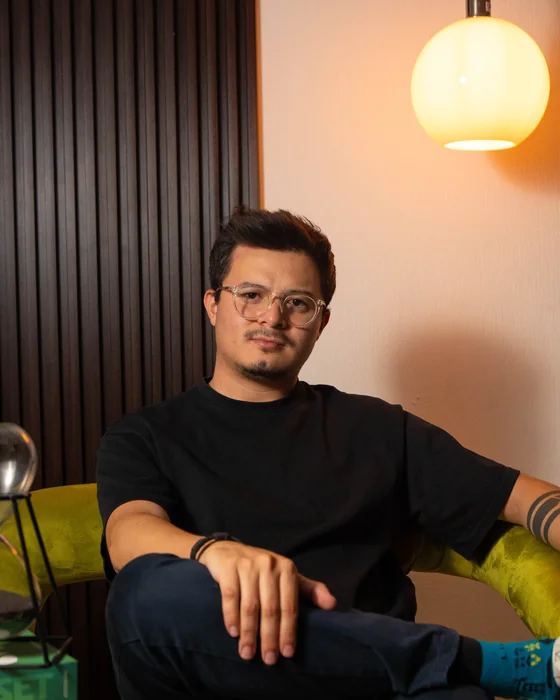
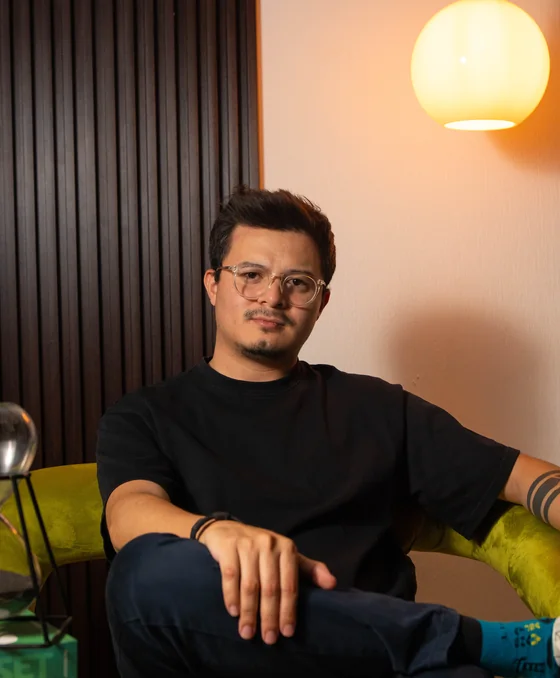
Hero: re-crop to match the social-share framing (face-forward)

diff --git a/es/index.html b/es/index.html
@@ -180,7 +180,7 @@
       <figure class="hero-figure reveal">
         <img src="../assets/images/hero/kevin-rivera-el-salvador-45.webp"
              srcset="../assets/images/hero/kevin-rivera-el-salvador-45-560.webp 560w, ../assets/images/hero/kevin-rivera-el-salvador-45.webp 900w"
-             sizes="(max-width:820px) 320px, 430px" width="900" height="1125"
+             sizes="(max-width:820px) 320px, 430px" width="900" height="1090"
              alt="Kevin Rivera, especialista en activos digitales y blockchain en El Salvador" fetchpriority="high">
       </figure>
     </div>

diff --git a/index.html b/index.html
@@ -179,7 +179,7 @@
       <figure class="hero-figure reveal">
         <img src="assets/images/hero/kevin-rivera-el-salvador-45.webp"
              srcset="assets/images/hero/kevin-rivera-el-salvador-45-560.webp 560w, assets/images/hero/kevin-rivera-el-salvador-45.webp 900w"
-             sizes="(max-width:820px) 320px, 430px" width="900" height="1125"
+             sizes="(max-width:820px) 320px, 430px" width="900" height="1090"
              alt="Kevin Rivera, digital assets and blockchain specialist in El Salvador" fetchpriority="high">
       </figure>
     </div>